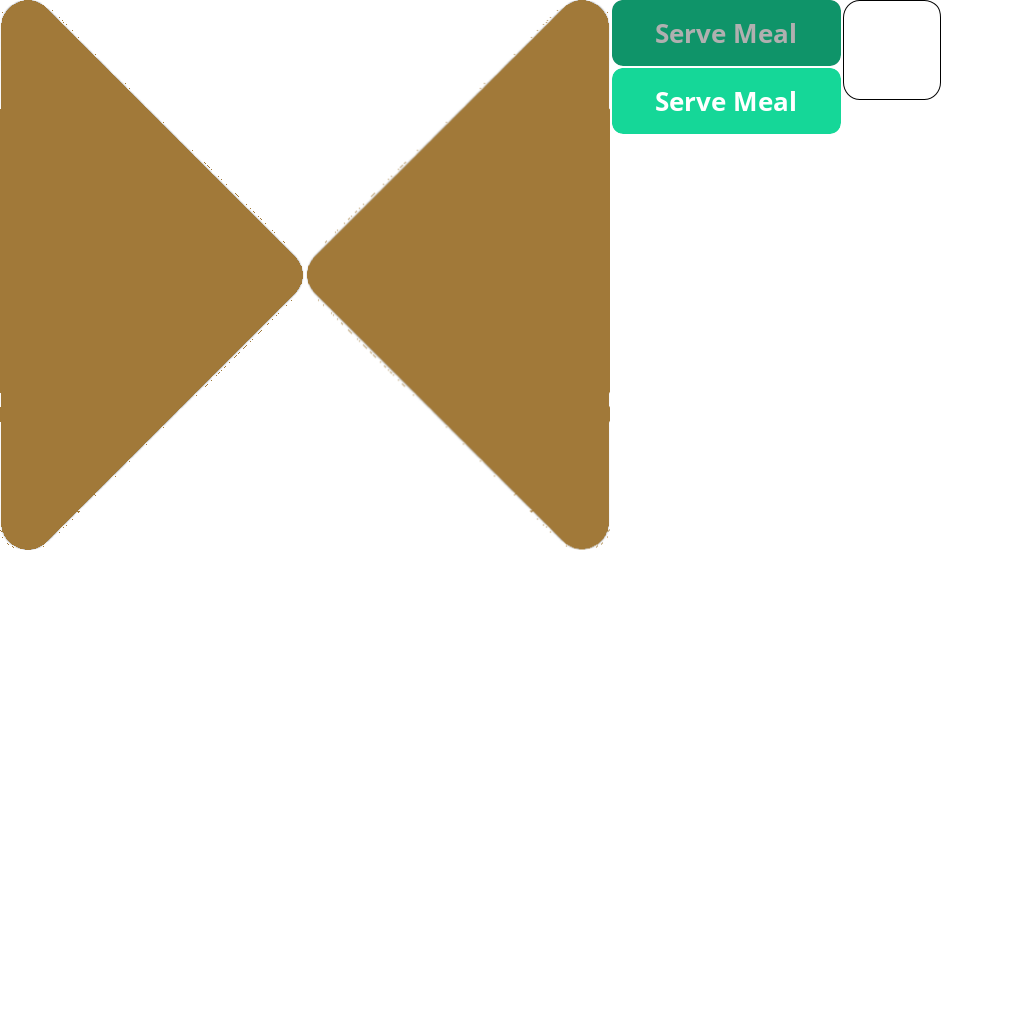
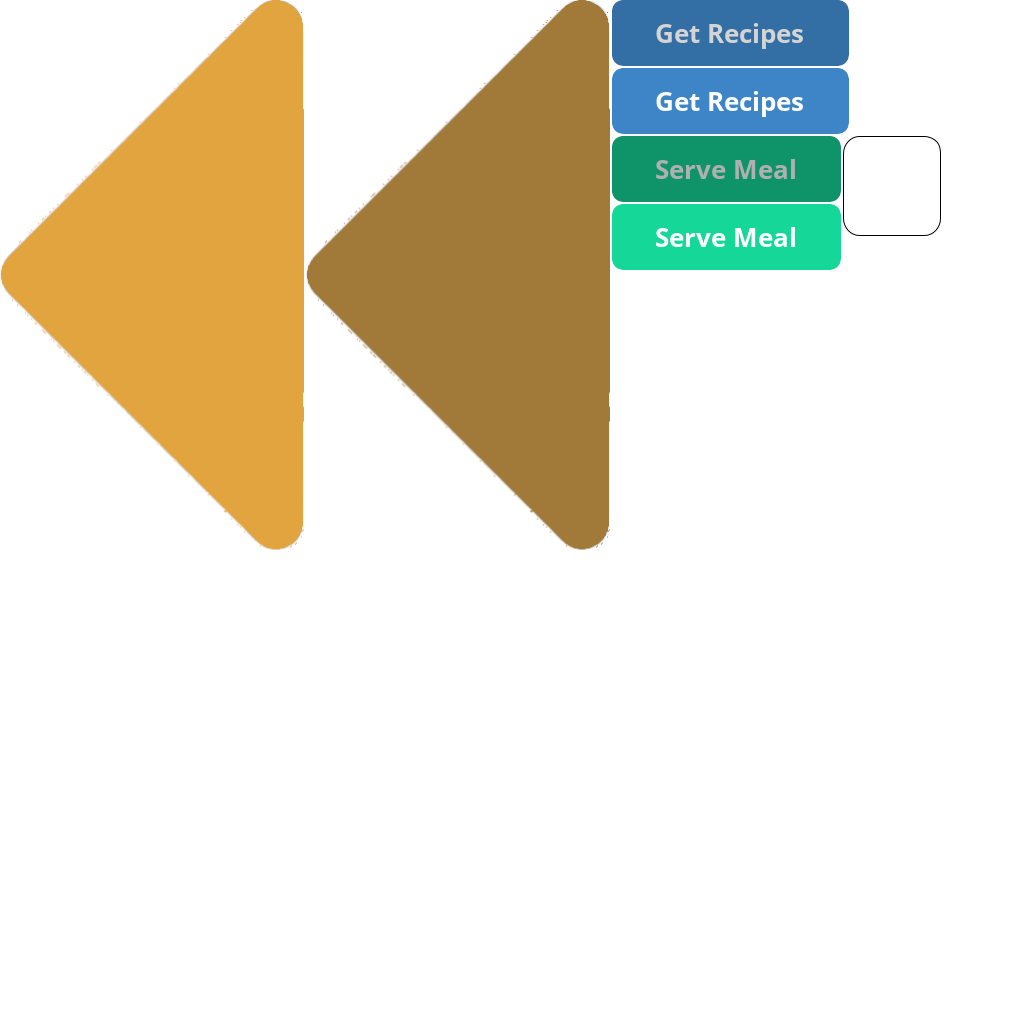
habs > sens

Changed region(s): [[0.0, 0.0, 0.3125, 0.5625], [0.5938, 0.0, 0.8438, 0.2812]]

diff --git a/Source/Scenes/CookingScene.cpp b/Source/Scenes/CookingScene.cpp
@@ -1,4 +1,6 @@
 #include "CookingScene.h"
+#include "Shop.h"
+#include "BubbleGame.h"
 
 #include "../Classes/Ingredient.h"
 #include "../Classes/Player.h"
@@ -135,6 +137,7 @@ void CookingScene::loadStartScreen() {
     processText = processTextObject->as<fairygui::GTextField>();
     processText->setText("Your actions will appear here");
 
+    // Button to serve the meal (Finish button basically)
     fairygui::GObject* serveButtonObject = cookingSceneComponent->getChild("n13");
     if (serveButtonObject == nullptr || serveButtonObject->as<fairygui::GButton>() == nullptr) {
         std::cerr << "Error: serveButtonObject is null." << std::endl;
@@ -144,6 +147,29 @@ void CookingScene::loadStartScreen() {
     serveButton->addClickListener([this](fairygui::EventContext* context) {
         Recipe recipe = currentMeal->findMatchingRecipe();
         std::cout << recipe.name << " " << currentMeal->getRecipeAccuracy() << std::endl;
+    });
+
+    // Button to navigate to the shop
+    fairygui::GObject* shopButtonObject = cookingSceneComponent->getChild("n16");
+    if (shopButtonObject == nullptr || shopButtonObject->as<fairygui::GButton>() == nullptr) {
+        std::cerr << "Error: shopButtonObject is null." << std::endl;
+        return;
+    }
+    fairygui::GButton* shopButton = shopButtonObject->as<fairygui::GButton>();
+    shopButton->addClickListener([this](fairygui::EventContext* context) {
+        Director::getInstance()->replaceScene(utils::createInstance<Shop>());
+    });
+
+    // Button to navigate to the bubble game
+    fairygui::GObject* bubbleButtonObject = cookingSceneComponent->getChild("n17");
+    if (bubbleButtonObject == nullptr || bubbleButtonObject->as<fairygui::GButton>() == nullptr)
+    {
+        std::cerr << "Error: bubbleButtonObject is null." << std::endl;
+        return;
+    }
+    fairygui::GButton* bubbleButton = bubbleButtonObject->as<fairygui::GButton>();
+    bubbleButton->addClickListener([this](fairygui::EventContext* context) {
+        Director::getInstance()->replaceScene(utils::createInstance<BubbleGame>());
     });
 
     currentMeal = new Meal();

diff --git a/Source/Scenes/Homepage.cpp b/Source/Scenes/Homepage.cpp
@@ -34,7 +34,7 @@ void Homepage::loadStartScreen() {
     if (startButtonObject != nullptr && startButtonObject->as<fairygui::GButton>() != nullptr) {
         fairygui::GButton* startButton = startButtonObject->as<fairygui::GButton>();
         startButton->addClickListener([](fairygui::EventContext* context) {
-            Director::getInstance()->replaceScene(utils::createInstance<BubbleGame>());
+            Director::getInstance()->replaceScene(utils::createInstance<CookingScene>());
         });
     }
 }
